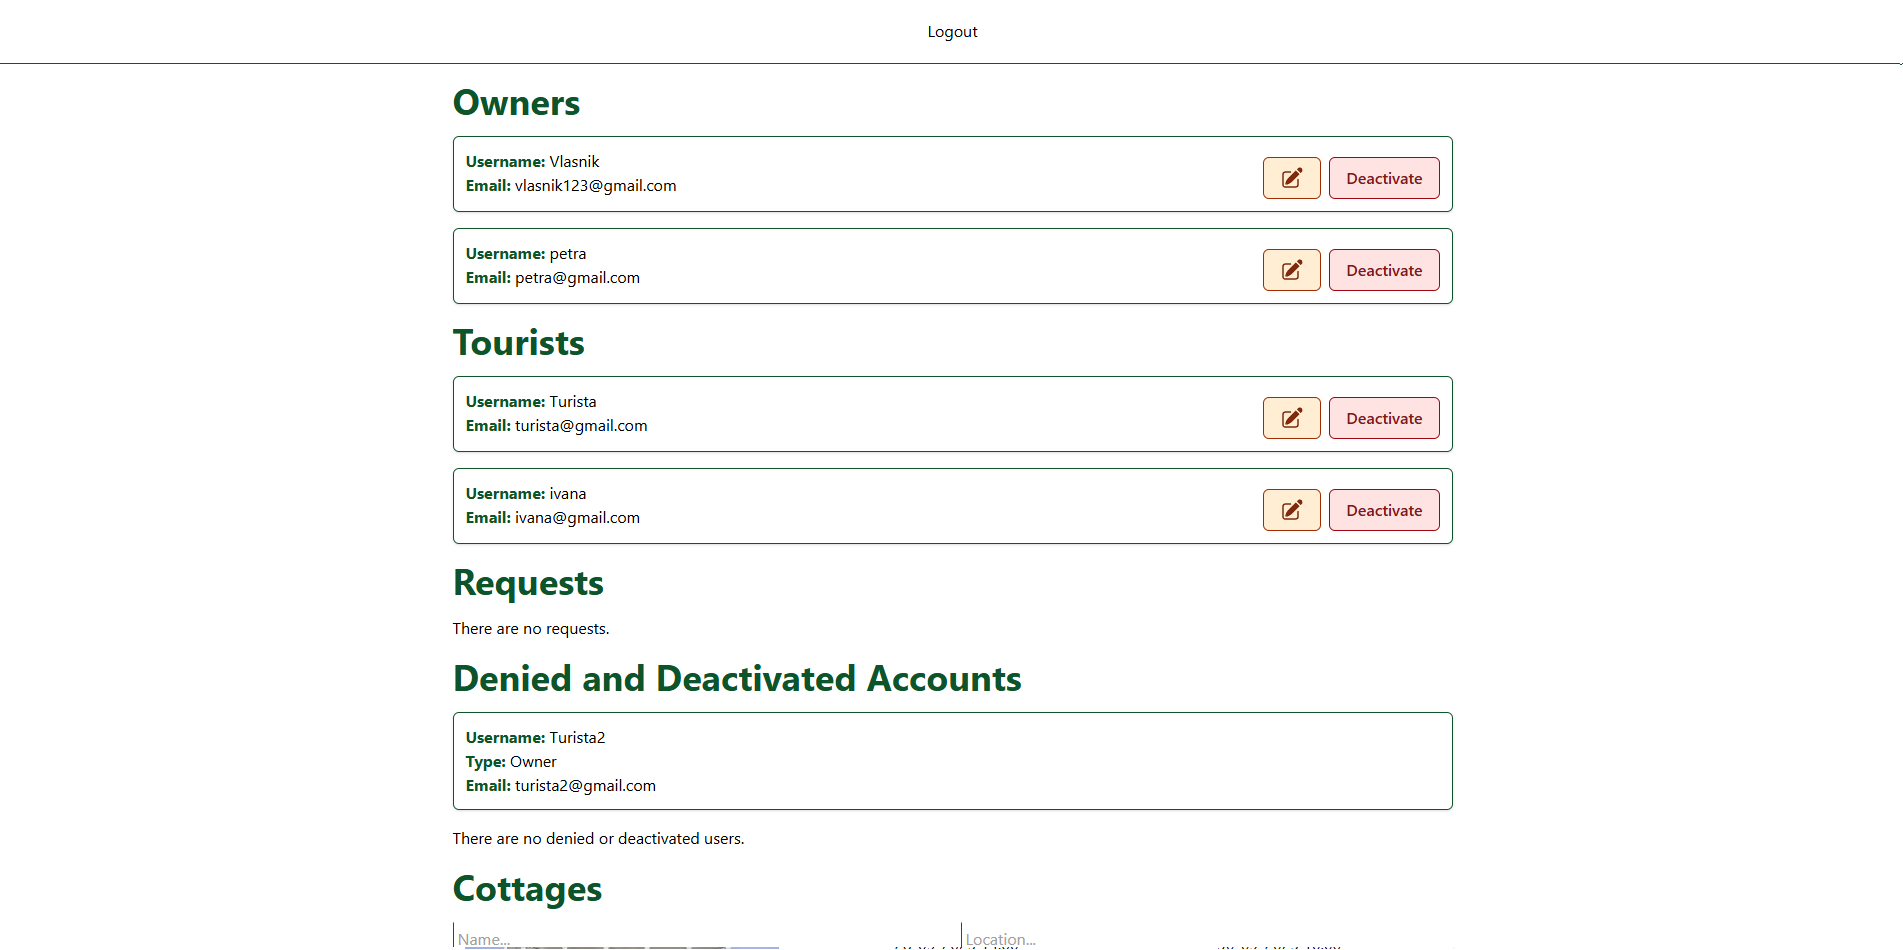
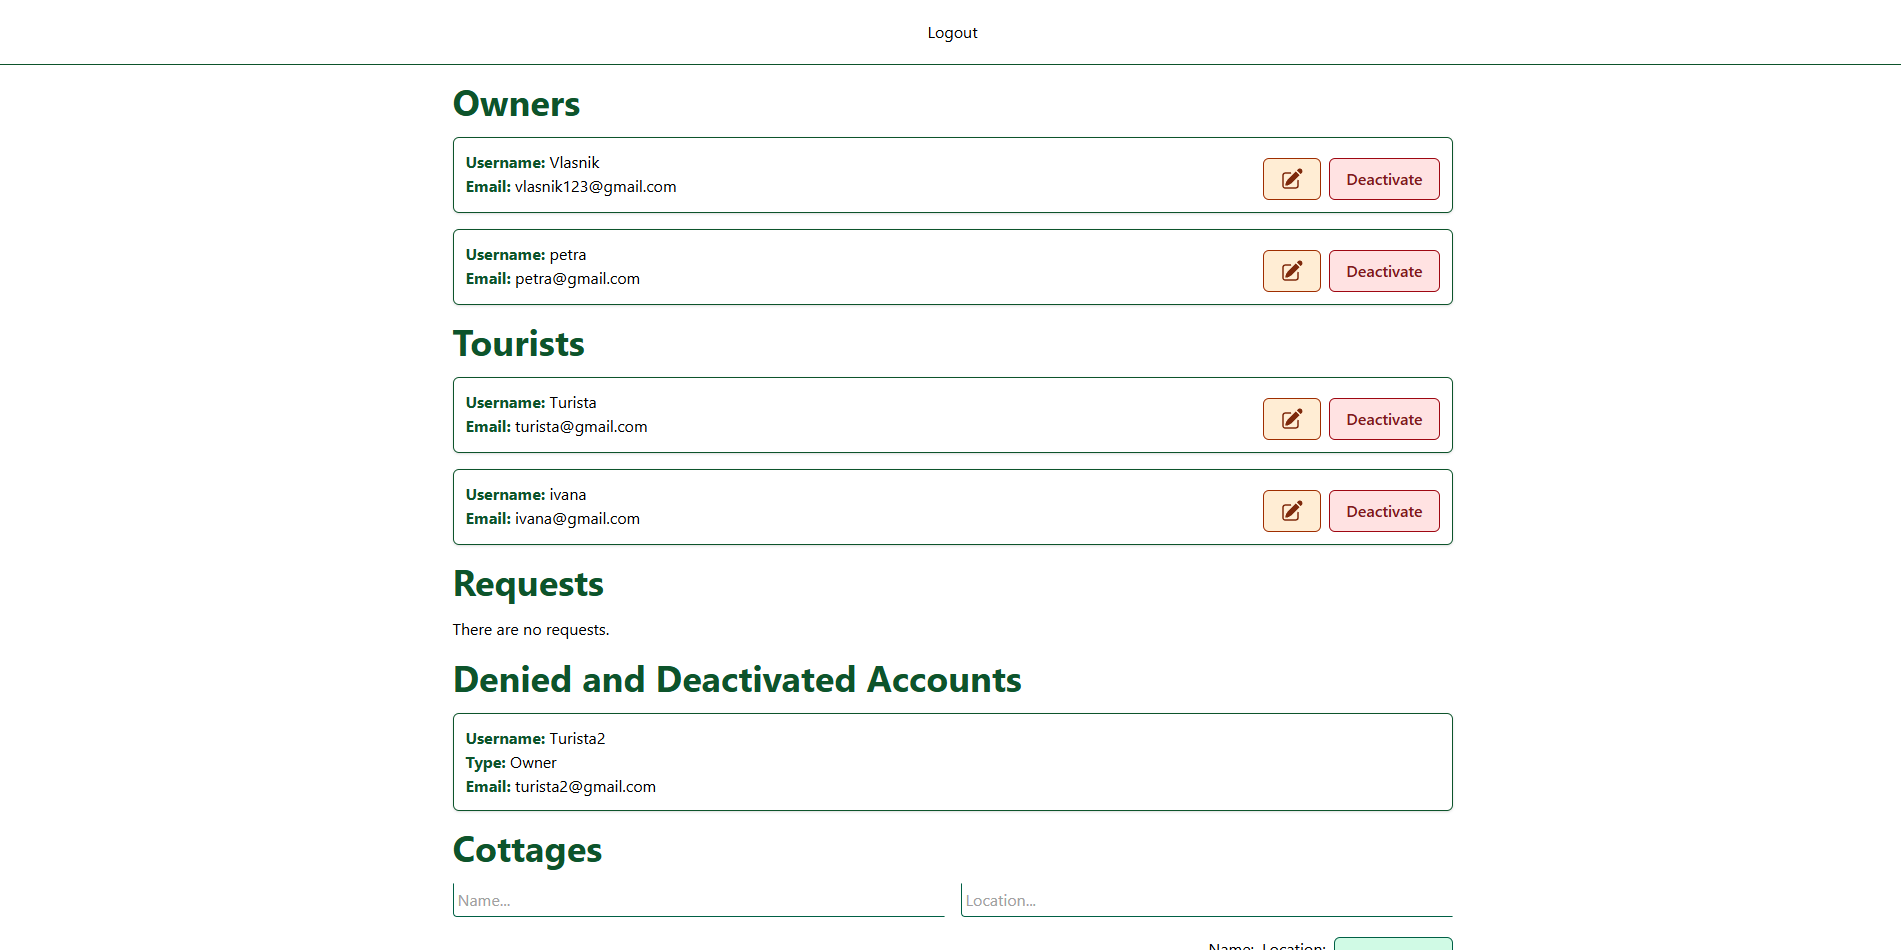
Photos.

diff --git a/frontend/src/app/pages/admin-home-page/admin-home-page.component.html b/frontend/src/app/pages/admin-home-page/admin-home-page.component.html
@@ -77,7 +77,7 @@
       <div><app-user-listing [user]="u" [showtype]="true"></app-user-listing>
 
       </div>
-      }@if(zahtevi.length==0){
+      }@if(blokirani.length==0){
       <span>There are no denied or deactivated users.</span>
       }
     </div>
